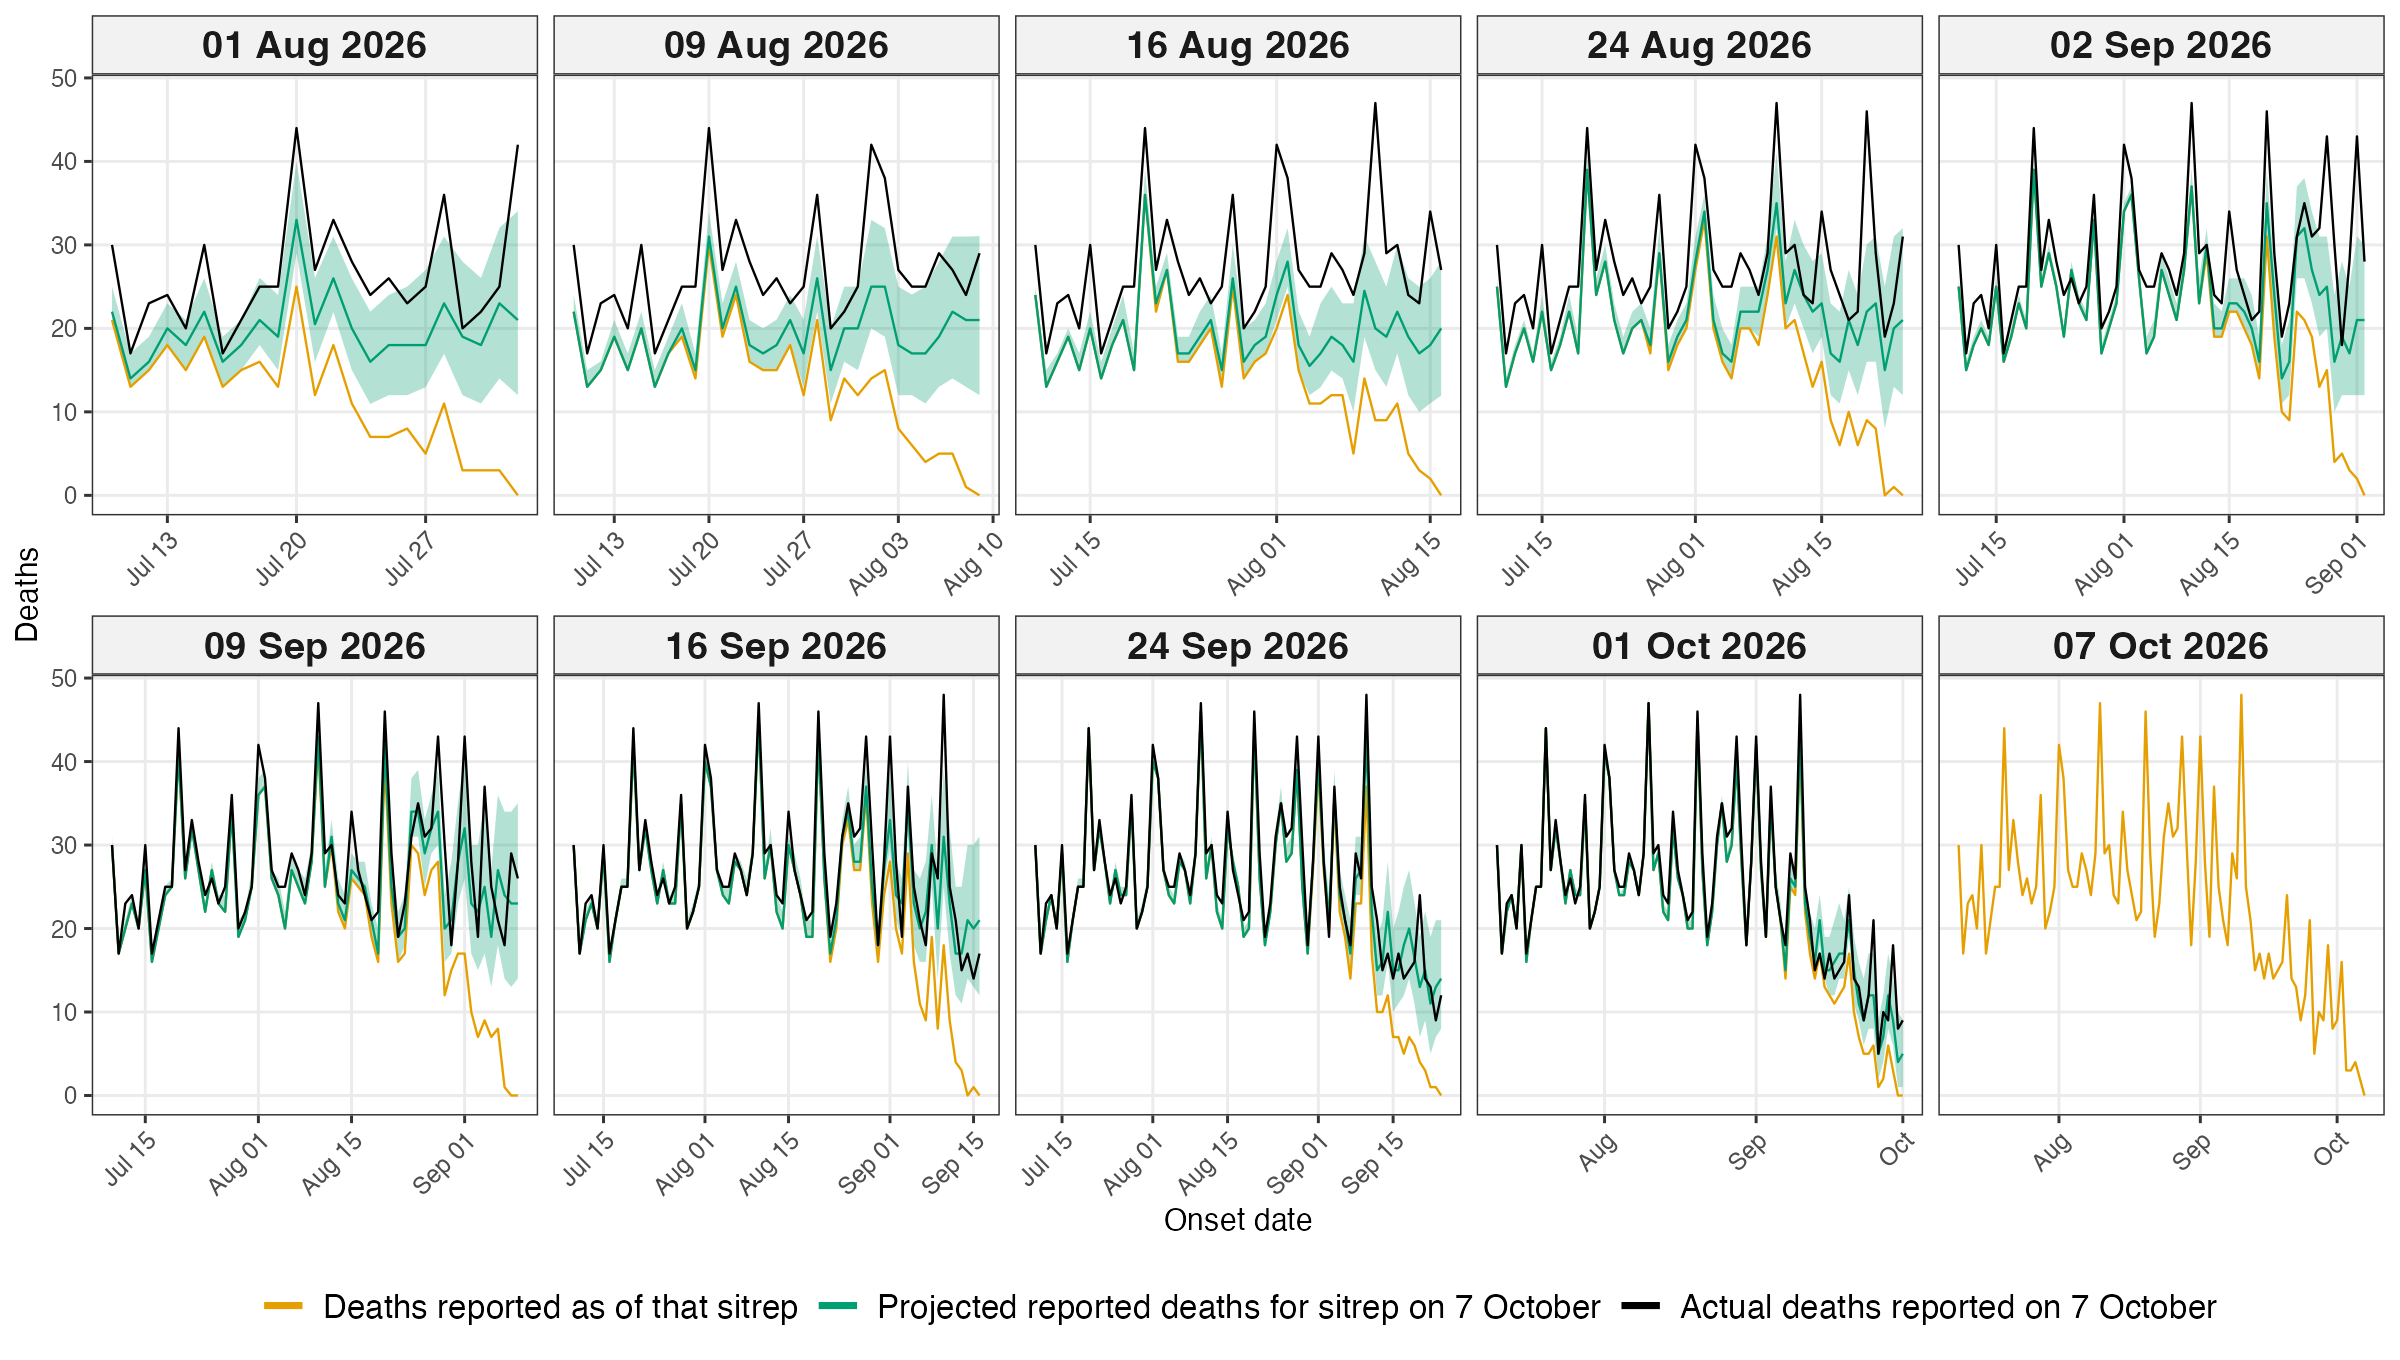
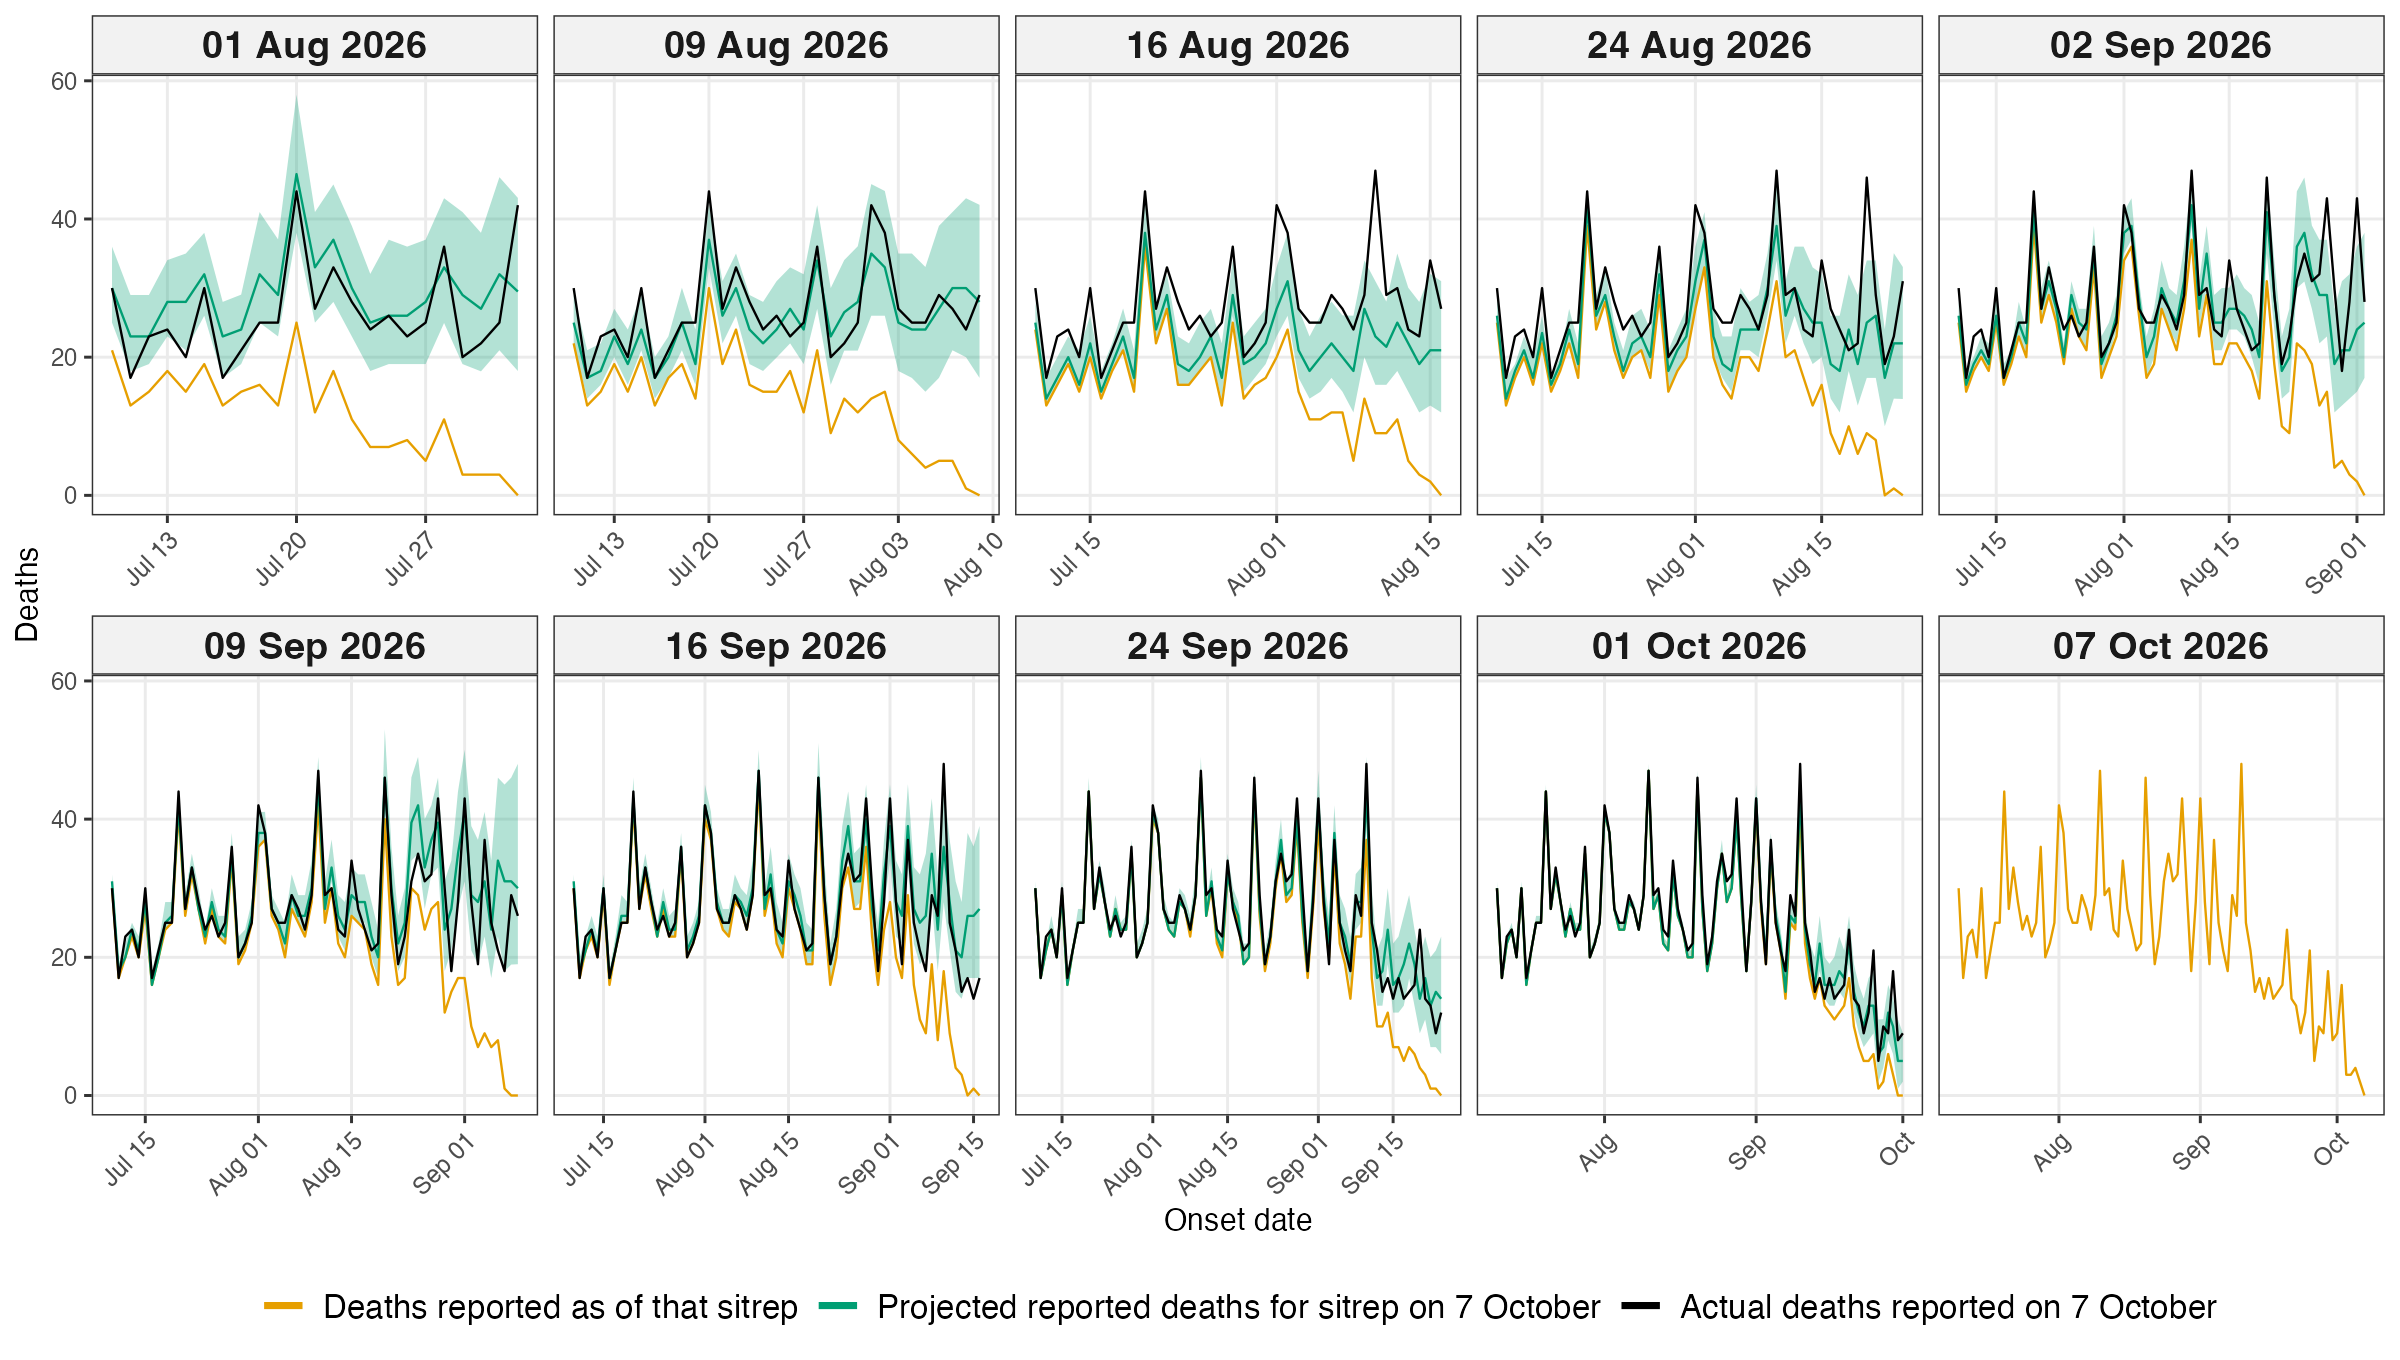
Death slides: the earlier fits figure back, as a placeholder; projections table removed; (f)'s figure kept as bvd_deaths_fits_deaths_f.png

diff --git a/docs/bvd_death_slides.tex b/docs/bvd_death_slides.tex
@@ -147,7 +147,7 @@ is about 79\% of its latest value, and the death count about 60\%.
 % % ---------------------------------------------------------------------------
 \begin{frame}{Fits to past sitreps: deaths}
 \centering
-\includegraphics[height=0.78\textheight]{bvd_deaths_fits_deaths.png}
+\placeholderfig{bvd_deaths_fits_deaths.png}{0.78\textheight}
 
 \smallskip
 {\small Panels: the date of each fit. Shading: 90\% interval of the projection.}
@@ -738,35 +738,10 @@ of 2 to 10 on most reports from 26 August to 15 September, the bursts, and on
 % ---------------------------------------------------------------------------
 \begin{frame}{Fits to past sitreps: deaths}
 \centering
-\includegraphics[height=0.78\textheight]{bvd_deaths_fits_deaths.png}
+\placeholderfig{bvd_deaths_fits_deaths.png}{0.78\textheight}
 
 \smallskip
 {\small Panels: the date of each fit. Shading: 90\% interval of the projection.}
-\end{frame}
-
-% ---------------------------------------------------------------------------
-\begin{frame}{Fits to past sitreps: deaths in the latest 28 onset days}
-\centering
-\renewcommand{\arraystretch}{1.2}
-\begin{tabular}{lccc}
-\toprule
-Fit date & Shown then & Projected for 7 October & Actual on 7 October \\
-\midrule
-1 Aug & 348 & 545 (504--595) & 709 \\
-9 Aug & 380 & 556 (512--612) & 761 \\
-16 Aug & 403 & 574 (529--628) & 813 \\
-24 Aug & 441 & 630 (588--677) & 798 \\
-2 Sep & 495 & 666 (627--711) & 826 \\
-9 Sep & 489 & 716 (669--772) & 786 \\
-16 Sep & 513 & 722 (685--776) & 768 \\
-24 Sep & 457 & 619 (585--668) & 639 \\
-1 Oct & 379 & 472 (450--524) & 510 \\
-\bottomrule
-\end{tabular}
-
-\medskip
-{\small Deaths in the latest 28 onset days of each fit. Posterior medians and
-90\% intervals.}
 \end{frame}
 
 % ---------------------------------------------------------------------------
